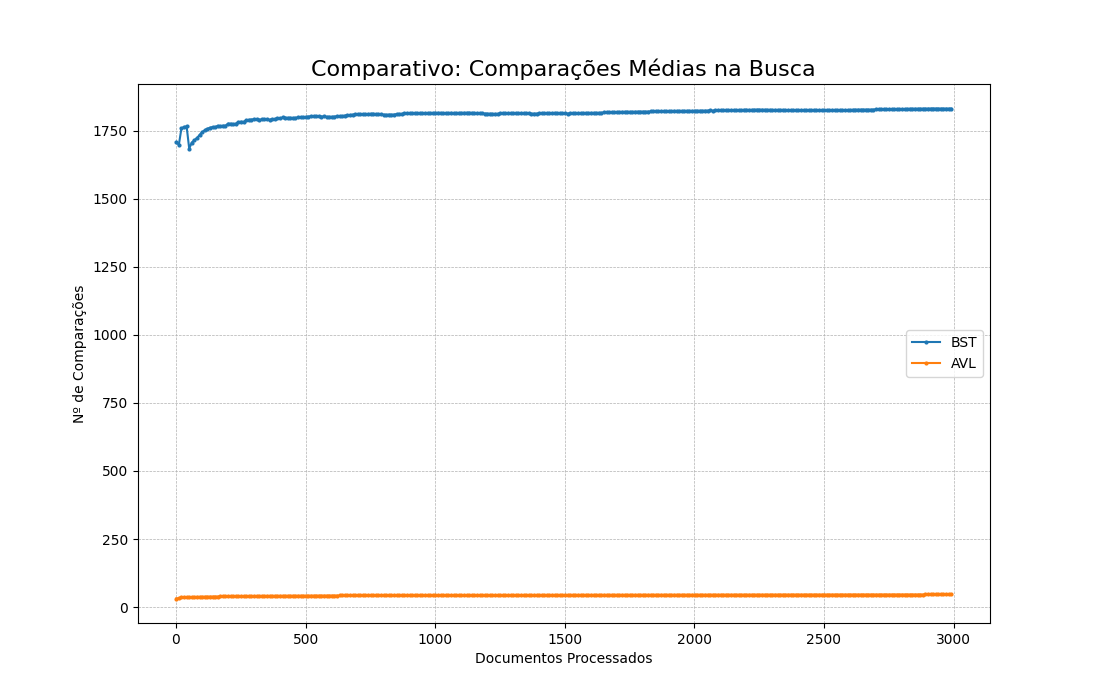
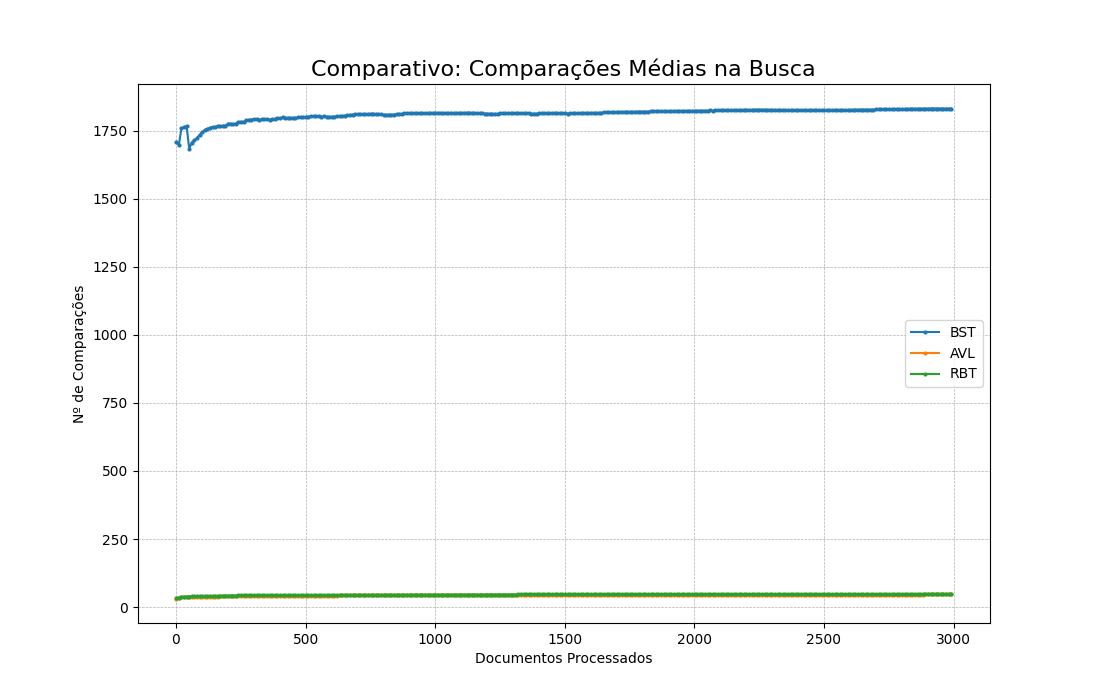
Graficos completos

Changed region(s): [[0.1545, 0.84, 0.8655, 0.87], [0.8036, 0.45, 0.8964, 0.54]]

diff --git a/analysis/all.py b/analysis/all.py
@@ -60,8 +60,7 @@ if __name__ == "__main__":
     data_paths = {
         "bst": "../benchmark/results/bst.csv",
         "avl": "../benchmark/results/avl.csv",
-        # comentado pois faltam os dados do rbt
-        # "rbt": "../benchmark/results/rbt.csv",
+        "rbt": "../benchmark/results/rbt.csv",
     }
     
     all_data = {name: pd.read_csv(path) for name, path in data_paths.items()}
